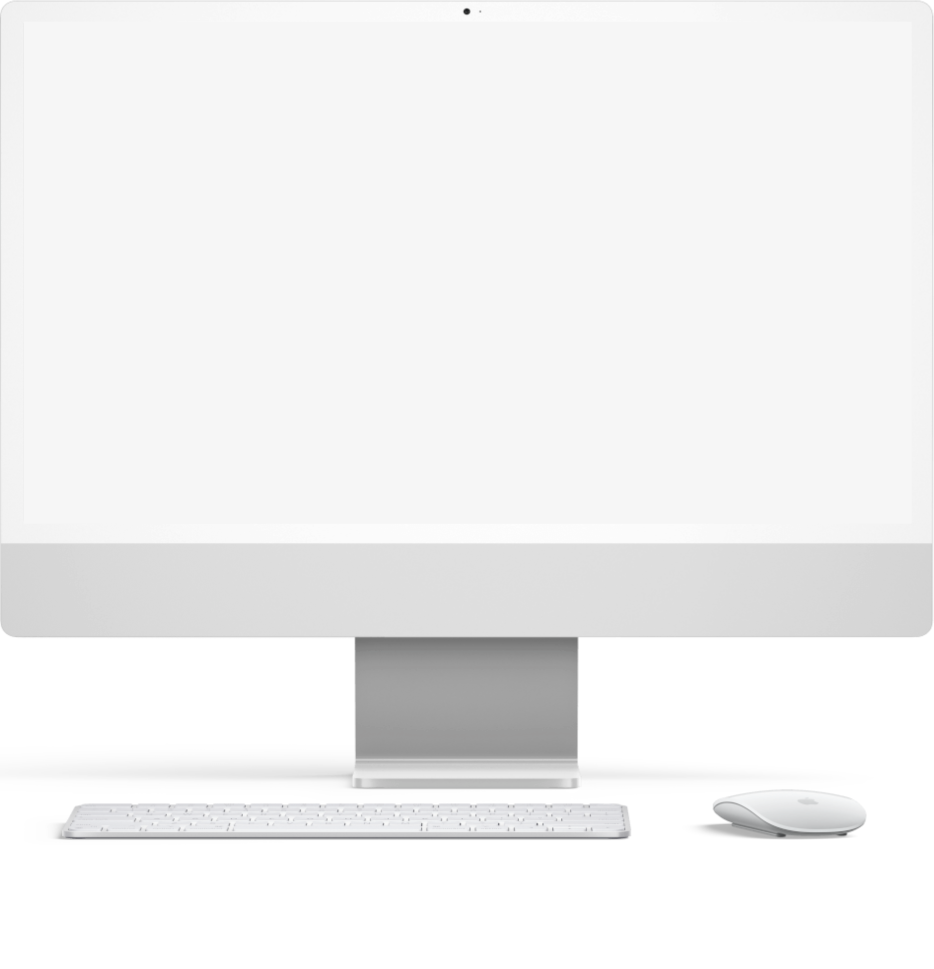
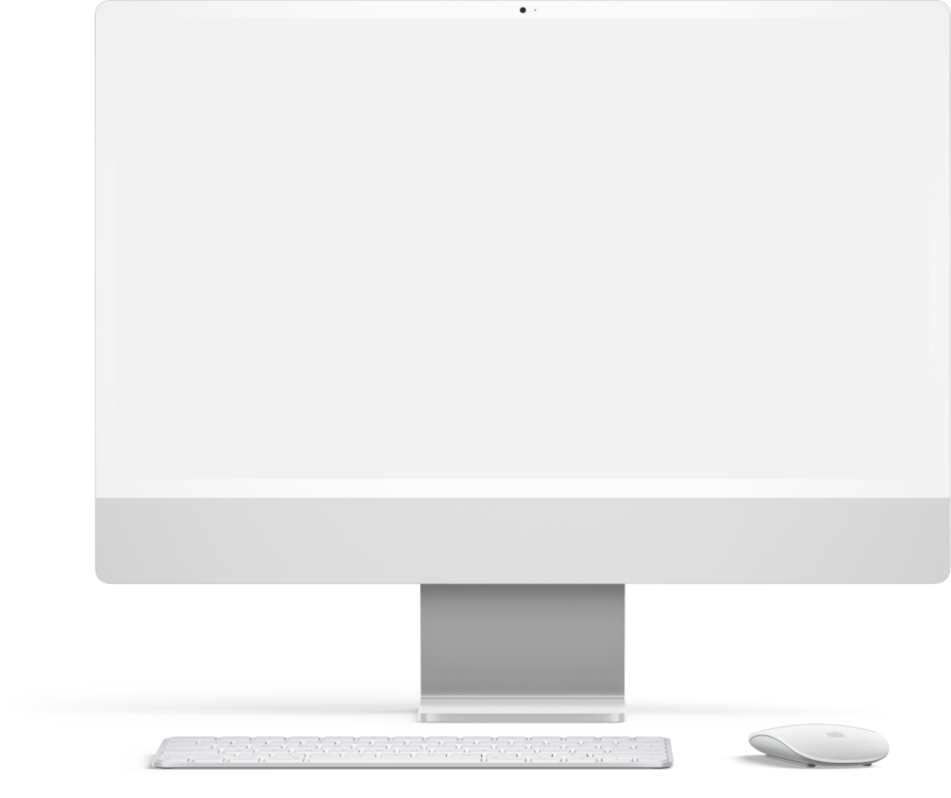
update

diff --git a/src/pages/desenvolvimento/sites.tsx b/src/pages/desenvolvimento/sites.tsx
@@ -2,11 +2,10 @@ import { useRouter } from 'next/router';
 import Head from 'next/head';
 import Footer from '../../components/Layout/Footer';
 import Contact from '../../components/Contact';
-import { useEffect, useRef, useState } from 'react';
+import { useCallback, useEffect, useState } from 'react';
 import { WPPButton } from '../../components/WPPButton/WPPButton';
 import { ContainerDesenvolvimentos } from '../../assets/styles/DesenvolvimentosStyle';
-import { VideoLP } from '../../components/VideoLP/VideoLP';
-import { IconEvelope, IconMessage, Logo } from '../../components/Svg';
+import { Logo } from '../../components/Svg';
 import * as ga from '../../lib/gtag';
 import Image from 'next/image';
 import {
@@ -20,6 +19,8 @@ import {
 import { colors } from '../../assets/styles/mixin';
 import ListCases from '../../components/Cases/Cases';
 import { ContainerCenter } from '../../components/Layout/styles';
+import { ICase } from '../api/cases';
+import axios from 'axios';
 
 interface IPropsMethodology {
     number: number;
@@ -150,9 +151,20 @@ const ContainerButtons = ({
 };
 
 const SistemasSobMedida: any = () => {
+    const [indicePosition, setIndicePosition] = useState<number>(0);
+    const [randomImage, setRandomImage] = useState<any>(
+        '/images/cases/alpha-fm/principal.png'
+    );
+    const [data, setData] = useState<ICase[]>([]);
     const [scrolledMethodology, setScrolledMethodology] = useState(false);
 
+    const getData = useCallback(async () => {
+        const response = await axios.get('/api/cases');
+        setData([...response.data]);
+    }, []);
+
     useEffect(() => {
+        getData();
         const hash = window.location.hash.substring(1); // obtem a âncora da URL
         if (hash) {
             const element = document.getElementById(hash);
@@ -160,11 +172,29 @@ const SistemasSobMedida: any = () => {
                 element.scrollIntoView({ behavior: 'smooth' }); // rola suavemente até o elemento
             }
         }
-    }, []);
+    }, [getData]);
 
     const onClickGATAG = () => {
         ga.gtagReportConversion('/send-whatsapp');
     };
+
+    useEffect(() => {
+        const intervalRanomImage = setInterval(() => {
+            if (data.length > 0) {
+                if (data[indicePosition].images.principal) {
+                    setRandomImage(
+                        `/images/cases/${data[indicePosition].slug}/${data[indicePosition]?.images?.principal}`
+                    );
+                }
+                if (indicePosition + 1 === data.length) {
+                    setIndicePosition(0);
+                } else {
+                    setIndicePosition(indicePosition + 1);
+                }
+            }
+        }, 5000);
+        return () => clearInterval(intervalRanomImage);
+    }, [data, indicePosition]);
 
     return (
         <ContainerDesenvolvimentos>
@@ -199,8 +229,13 @@ const SistemasSobMedida: any = () => {
                         </p>
                         <ContainerButtons onClickGATAG={onClickGATAG} />
                     </div>
-                    <div id="video-institucional">
-                        <VideoLP />
+                    <div id="cases-roles">
+                        <div
+                            className="browser-case"
+                            style={{
+                                backgroundImage: `url(${randomImage})`,
+                            }}
+                        ></div>
                     </div>
                 </div>
             </div>
@@ -208,6 +243,7 @@ const SistemasSobMedida: any = () => {
             <ContainerWaves
                 color={colors.primaryGrey}
                 background={colors.primaryLight}
+                className="wave-banner"
             />
 
             <section className="light">

diff --git a/src/assets/styles/DesenvolvimentosStyle.ts b/src/assets/styles/DesenvolvimentosStyle.ts
@@ -22,6 +22,10 @@ export const ContainerDesenvolvimentos = styled.div`
     .wave-first {
         margin-top: -20px;
     }
+    .wave-banner {
+        position: relative;
+        z-index: 1;
+    }
     .center-page {
         width: 1140px;
         margin: 0px auto;
@@ -397,6 +401,50 @@ export const ContainerDesenvolvimentos = styled.div`
                 display: flex;
                 flex-direction: column;
                 border-radius: 10px;
+                .browser- case {
+                    width: 100%;
+                    height: 100%;
+                }
+            }
+            #cases-roles {
+                height: 580px;
+                min-width: 700px;
+                display: flex;
+                flex-direction: column;
+                border-radius: 10px;
+                background-image: url('/images/computer-mask.png');
+                background-size: 100% auto;
+                margin-bottom: -250px;
+                z-index: -9;
+                .browser-case {
+                    width: 603px;
+                    height: 342px;
+                    margin: 12px 8px 8px 84px;
+                    background-size: 102% auto;
+                    background-position: center top;
+                    border-radius: 5px;
+                    background-color: #fff;
+                    display: flex;
+                    align-items: flex-end;
+                    justify-content: flex-start;
+                    box-sizing: border-box;
+                    position: relative;
+                    p {
+                        display: flex;
+                        background: ${colors.primary};
+                        padding: 20px;
+                        backdrop-filter: blur(3px);
+                        font-size: 20px;
+                        font-family: ${fonts.chaney};
+                        text-transform: uppercase;
+                        font-weight: normal;
+                        text-align: left;
+                        color: ${colors.primaryLight};
+                        max-width: 80%;
+                        animation: fadeInLeft 0.5s;
+                        border-radius: 10px;
+                    }
+                }
             }
             @media (max-width: 420px) {
                 flex-direction: column;
